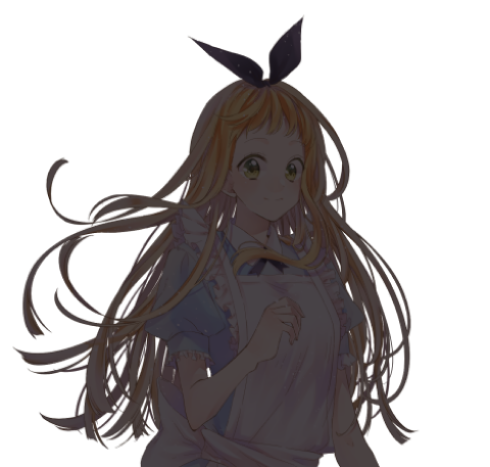
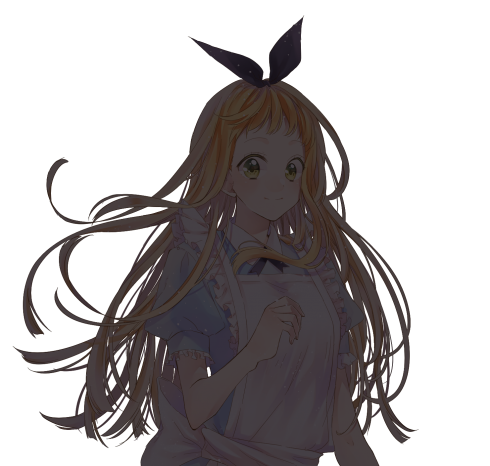
完成版１Verです。 イラスト、ランキングの不備直しました。

diff --git a/src/RecordState.java b/src/RecordState.java
@@ -32,9 +32,9 @@ public class RecordState implements State  {
 		Rank();
 		godend.play();
 	}
-	
+
 	public void processTimeElapsed(int msec){
-		
+
 	}
 
 	public State process(String event) {
@@ -59,29 +59,29 @@ public class RecordState implements State  {
        }
        g.setFont(new Font(Font.SANS_SERIF, Font.BOLD, 60));
        g.drawString(""+model.score, 654, 755);
-		} 
-	
-	
-	
+		}
+
+
+
 	public void setRanking(){
 		String r=""+model.getScore();
 		try{
-			File file=new File("../taiping/ranking.txt");
+			File file=new File("../Taiping_no_Alice/ranking.txt");
 					PrintWriter printwriter=new PrintWriter(new BufferedWriter(new FileWriter(file,true)));
 					printwriter.println(r);
 					printwriter.close();
-					
+
 		}catch(IOException e){
 			e.printStackTrace();
 		}
-		
+
 	}
-	
+
 	public void Sort(){
 		Collections.sort(rank ,Collections.reverseOrder());
 	}
 	public void Rank(){
-		File file=new File("../taiping/ranking.txt");
+		File file=new File("../Taiping_no_Alice/ranking.txt");
 		if(!file.exists()){
 			return;
 		}
@@ -99,5 +99,5 @@ public class RecordState implements State  {
 		}
 		Sort();
 	}
-	
+
 }

diff --git a/src/kaiwa.java b/src/kaiwa.java
@@ -169,19 +169,19 @@ public class kaiwa implements State  {
 		  nameflag=1;}
 		  
 		  if(model.i==4||model.i==6||model.i==8||model.i==11||model.i==12||model.i==14||model.i==15||model.i==16||model.i==17||model.i==19||model.i==23||model.i==25){
-			  g.drawImage(  bousi, 600, 250,model.getView());
+			  g.drawImage(  bousi, 680, 240,model.getView());
 		  g.drawImage(  arisukuro, 0, 300,model.getView());
 		  nameflag=2;}
 		  
 		  if(model.i==5||model.i==7||model.i==10||model.i==13||model.i==18||model.i==20||model.i==22||model.i==24||model.i==26){
-		  g.drawImage(  bousikuro, 600, 250,model.getView());
+		  g.drawImage(  bousikuro, 680, 240,model.getView());
 		  g.drawImage(  arisu, 0, 300,model.getView());
 		  nameflag=1;}
 		  if(model.i==27)
 			  nameflag=0;
 		  
 		  if(model.i==9||model.i==21){
-			  g.drawImage(  bousikuro, 600, 250,model.getView());
+			  g.drawImage(  bousikuro, 680, 240,model.getView());
 		  g.drawImage(  arisukuro, 0, 300,model.getView());
 	nameflag=0;}
 		 

diff --git a/src/Question.java b/src/Question.java
@@ -1,15 +1,15 @@
 import java.util.Random;
 
 public class Question {
-	
+
 
 	private String sora[]= new String[7];
 	private String riku[]= new String[7];
 
 	private String question;
-	
+
 	Random rand=new Random();
-	
+
 	public Question(int qnum, int direction) {
 		mondai();
 	if(direction <= 2)
@@ -26,15 +26,15 @@ public void mondai(){
 	sora[4]="tobukingyo";
 	sora[5]="hatopoppo";
 	sora[6]="kaifuku";
-	
+
 
 	riku[0]="kontyuu";
-	riku[1]="kimoikumo";
-	riku[2]="tanzyoubi";
+	riku[1]="spiderman";
+	riku[2]="birthday";
 	riku[3]="toranpu";
 	riku[4]="mazyutu";
-	riku[5]="ninzin";
-	riku[6]="amaikukki";
+	riku[5]="mandrago";
+	riku[6]="mrcookie";
 
 }
 

diff --git a/src/TitleState.java b/src/TitleState.java
@@ -68,14 +68,14 @@ public class TitleState implements State  {
 		 g.drawImage( haikei, -70, 0,model.getView());
 		 g.drawImage( ansd, 320, 605,model.getView());
 			  if(time%2==0){
-				  g.drawString("〜Push Enter〜",455,665);}
+				  g.drawString("〜Push Enter〜",455,670);}
 			  else {
 
-		 g.drawString("〜Push Enter〜",455,655);
+		 g.drawString("〜Push Enter〜",455,660);
 
 		}
 				g.setFont(new Font(Font.SERIF , Font.BOLD, 21));
-				 g.drawString("3次元のボスが来たらスペースキーを押してね",373,693);
+				 g.drawString("3次元のボスが来たらスペースキーを押してね",373,694);
 }
 
 

diff --git a/src/Boss.java b/src/Boss.java
@@ -1,13 +1,12 @@
+import java.applet.Applet;
+import java.applet.AudioClip;
 import java.awt.Color;
 import java.awt.Font;
 import java.awt.Graphics;
+import java.awt.Image;
 import java.awt.Toolkit;
-import java.awt.event.KeyEvent;
 import java.util.LinkedList;
 import java.util.Random;
-import java.applet.Applet;
-import java.applet.AudioClip;
-import java.awt.Image;
 
 
 public class Boss implements State  {
@@ -169,7 +168,7 @@ else{}
     	   
        }
      else  
-       g.drawImage(  zyouou, 300, -400+idou,model.getView());
+       g.drawImage(  zyouou, 340, -400+idou,model.getView());
        
       
        
